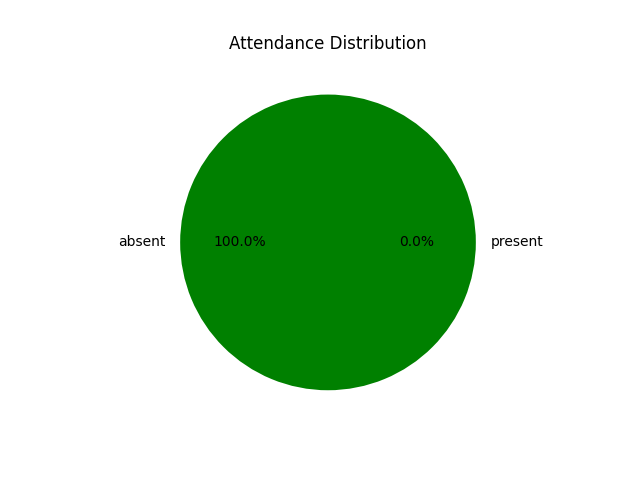
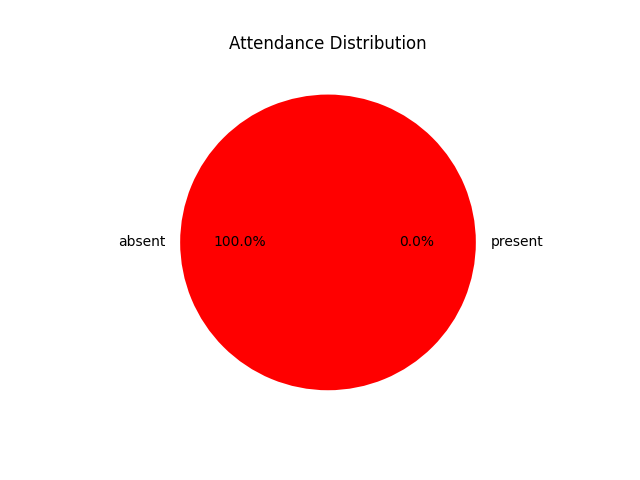
added video and photo processing

Changed region(s): [[0.2812, 0.1875, 0.75, 0.8125]]

diff --git a/templates/index.html b/templates/index.html
@@ -40,7 +40,7 @@
     <div class="container col-xxl-8 px-4 py-5">
         <div class="row flex-lg-row-reverse align-items-center g-5 py-5">
           <div class="col-10 col-sm-8 col-lg-6">
-            <img src="static/attendence.jpeg" class="d-block mx-lg-auto img-fluid" alt="Attendence Image" id="mainimg">
+            <img src="static/attendence.jpeg" class="d-block mx-lg-auto img-fluid" alt="Attendence Image" class="mainimg">
           </div>
           <div class="col-lg-6">
             <h1 class="display-5 fw-bold text-body-emphasis lh-1 mb-3">Attend with a smile😊</h1>
@@ -49,15 +49,28 @@
                 Are you really bored with attendance being called out loud and bearing with the uncontrollabley smart students...we are here with a solution... click ont the below link to START </p>
             <div class="d-grid gap-2 d-md-flex justify-content-md-start">
               <form action="/run_face_recognition" method="POST">
-                <button type="submit" class="btn btn-primary btn-lg px-4 me-md-2" fdprocessedid="7hkavj">Start Attendance</button>
+                <button type="submit" class="btn btn-primary btn-lg px-4 me-md-2" fdprocessedid="7hkavj">live process</button>
+              </form>
+              <form method="POST" action="/process_photo" enctype="multipart/form-data">
+                <input type="file" name="photo" accept=".jpg, .jpeg, .png">
+                <button type="submit" class="btn btn-primary btn-lg px-4 me-md-2" fdprocessedid="7hkavj">Process Photo</button>
+              </form>
+              <form method="POST" action="/process_video" enctype="multipart/form-data">
+                <input type="file" name="video" accept=".mp4">
+                <button type="submit" class="btn btn-primary btn-lg px-4 me-md-2" fdprocessedid="7hkavj">Process Video</button>
               </form>
               
-              <form action="{{ url_for('attendance_chart') }}" method="POST">
-                <button type="submit" class="btn btn-primary btn-lg px-4 me-md-2">Pie chart view</button>
-              </form>
-              <form action="{{ url_for('project_details') }}" method="POST">
-                <button type="submit" class="btn btn-outline-secondary btn-lg px-4">Project details</button>
-              </form>
+              
+            </div>
+            <br>
+            <div>
+                <form action="{{ url_for('attendance_chart') }}" method="POST">
+                  <button type="submit" class="btn btn-primary btn-lg px-4 me-md-2">Pie chart view</button>
+                </form>
+                <br>
+                <form action="{{ url_for('project_details') }}" method="POST">
+                  <button type="submit" class="btn btn-outline-secondary btn-lg px-4">Project details</button>
+                </form>
             </div>
           </div>
         </div>
@@ -67,7 +80,7 @@
     <div class="container px-4 py-5" id="featured-3">
         <h2 class="pb-2 border-bottom">Creators Info</h2>
         <div class="row g-4 py-5 row-cols-1 row-cols-lg-3">
-              <img src='static/radheshpic.jpeg'>
+              <img src='static/radheshpic.jpeg' class="imgpic">
            
           <div class="feature col" id="info1" class="gradient-background-2">
             
@@ -80,10 +93,10 @@
               <svg class="bi"><use xlink:href="#chevron-right"></use></svg>
             </a>
           </div>
+          <div class="new-line"></div>
+          <img src ="static/nithinpic.jpg" class="imgpic">
           <div class="feature col" id="info2" class="gradient-background-2">
-            <div class="feature-icon d-inline-flex align-items-center justify-content-center text-bg-primary bg-gradient fs-2 mb-3">
-              <svg class="bi" width="1em" height="1em"><use xlink:href="#people-circle"></use></svg>
-            </div>
+           
             <h3 class="fs-2 text-body-emphasis">Nithin Paramkar</h3>
             <p><h2 font-color="white">Student at RIT</h2>
               <h2>USN : 1MS22CS087</h2>
@@ -93,10 +106,10 @@
               <svg class="bi"><use xlink:href="#chevron-right"></use></svg>
             </a>
           </div>
+          <div class="new-line"></div>
+          <img src ="static/nirmithpic.jpg" class="imgpic">
           <div class="feature col" id="info3" class="gradient-background-2">
-            <div class="feature-icon d-inline-flex align-items-center justify-content-center text-bg-primary bg-gradient fs-2 mb-3">
-              <svg class="bi" width="1em" height="1em"><use xlink:href="#toggles2"></use></svg>
-            </div>
+            
             <h3 class="fs-2 text-body-emphasis">Nirmith MR</h3>
             <p><h2 font-color="white">Student at RIT</h2>
               <h2>USN : 1MS22CS087</h2>
@@ -106,10 +119,10 @@
               <svg class="bi"><use xlink:href="#chevron-right"></use></svg>
             </a>
           </div>
+          <div class="new-line"></div>
+          <img src ="static/jdodda.jpg" class="imgpic">
           <div class="feature col" id="info4">
-            <div class="feature-icon d-inline-flex align-items-center justify-content-center text-bg-primary bg-gradient fs-2 mb-3">
-              <svg class="bi" width="1em" height="1em"><use xlink:href="#toggles2"></use></svg>
-            </div>
+            
             <h3 class="fs-2 text-body-emphasis">JD Raghuveer</h3>
             <p><h2 font-color="white">Student at RIT</h2>
               <h2>USN : 1MS22CS087</h2>

diff --git a/templates/project.html b/templates/project.html
@@ -56,7 +56,7 @@
           <div class="col-md-5">
             <img src="static/images1.png">
           </div>
-            <h2 class="featurette-heading fw-normal lh-1">Continuous attendence monitoring.<br> <span class="text-body-secondary">with high accuracy model.</span></h2>
+            <h2 class="featurette-heading fw-normal lh-1">Continuous attendence monitoring.<br> <span class="text-body-secondary"></span></h2>
             <p class="lead">Our model tends to be more continuos accurate and .</p>
             <h3>This innovative approach employs real-time image capture and analysis to ensure accurate attendance records. By leveraging biometric features like facial recognition, this technology eliminates errors and enhances security. Its benefits include instant updates, data-driven insights, and seamless integration. However, ethical considerations must be upheld to ensure privacy. Should you seek to explore this solution further, feel free to connect.</h3>
           </div>
@@ -64,15 +64,7 @@
             
         </div>
     
-        <hr class="featurette-divider">
-    
-        <div class="row featurette">
-          
-        </div>
-    
-        <hr class="featurette-divider">
-    
-        <!-- /END THE FEATURETTES -->
+        
     
       </div>
       <div class="container">

diff --git a/static/styles.css b/static/styles.css
@@ -14,8 +14,10 @@ body {
 }
 .gradient-background-2 {
     background: linear-gradient(300deg, rgb(255, 255, 8), rgb(246, 234, 144), rgb(114, 252, 190));
-    background-size: 180% 180%;
+    background-size: 100% 100%;
     animation: gradient-animation 18s ease infinite;
+    width : 200 px;
+
 }
 
 @keyframes gradient-animation {
@@ -42,19 +44,30 @@ img {
     float: left; /* Use float to make the elements appear side-by-side */
     /*display: inline-block;*/
     background: linear-gradient(300deg, rgb(255, 255, 8), rgb(246, 234, 144), rgb(114, 252, 190));
-    background-size: 180% 180%;
+    background-size: 100% 100%;
     animation: gradient-animation 18s ease infinite;
     border-radius: 10px;
     margin-right: 20px; /* Add margin to create spacing between the elements */
     font-size: 2rem;
 }
-#mainimg{
+.mainimg{
     max-width: 100%;
     max-height: 100%;
+    display: flex; 
+    justify-content: right; 
+    align-items: right; 
+
 }
 .mod{
     display: flex; 
     justify-content: center; 
     align-items: center; 
 
+}
+.imgpic {
+    width : 300px;
+    height : 350px;
+}
+.new-line {
+    display: block;
 }

diff --git a/templates/attendance_chart.html b/templates/attendance_chart.html
@@ -6,7 +6,7 @@
 <link rel="stylesheet" type="text/css" href="{{ url_for('static', filename='styles.css') }}">
 <body>
     <h1>Attendance Chart</h1>
-    <div>
+    <div class="mod">
         <img src="{{ url_for('static', filename='pie_chart.png') }}" alt="Pie Chart">
     </div>
 </body>

diff --git a/app.py b/app.py
@@ -1,4 +1,4 @@
-from flask import Flask, render_template, request
+from flask import Flask, render_template, request, redirect, url_for
 import face_recognition
 import cv2
 import os
@@ -6,12 +6,22 @@ import numpy as np
 import csv
 from datetime import datetime
 import matplotlib.pyplot as plt
-app = Flask(__name__, template_folder ='templates')
+from PIL import Image
 
-def run_face_recognition():
-    present=[]
-    # face recognition code here
-    video_capture = cv2.VideoCapture(0)
+app = Flask(__name__, template_folder='templates')
+
+# Define the run_face_recognition function
+def run_face_recognition(input_file=None):
+    present = []
+    
+    # Initialize video capture
+    video_capture = cv2.VideoCapture(input_file) if input_file else cv2.VideoCapture(0)
+    
+    if not video_capture.isOpened():
+        print("Error: Video capture not initialized.")
+        return
+    
+    # Load known face encodings and names
     tata_image = face_recognition.load_image_file("photos/ratantata.jpg")
     tata_encoding = face_recognition.face_encodings(tata_image)[0]
 
@@ -21,25 +31,16 @@ def run_face_recognition():
     dhoni_image = face_recognition.load_image_file("photos/dhoni.jpg")
     dhoni_encoding = face_recognition.face_encodings(dhoni_image)[0]
 
-    
-    known_face_encodings = [
-        tata_encoding,
-        modi_encoding,
-        dhoni_encoding,
-        
-    ]
-
-    known_faces_names = [
-        "ratantata",
-        "modi",
-        "dhoni",
-        
-    ]
-
-    students = known_faces_names.copy()
+    known_face_encodings = [tata_encoding, modi_encoding, dhoni_encoding]
+    known_faces_names = ["ratantata", "modi", "dhoni"]
 
     while True:
-        _, frame = video_capture.read()
+        ret, frame = video_capture.read()
+
+        if not ret:
+            print("Error: Could not read frame.")
+            break
+        
         small_frame = cv2.resize(frame, (0, 0), fx=0.25, fy=0.25)
         rgb_small_frame = small_frame[:, :, ::-1]
 
@@ -48,62 +49,104 @@ def run_face_recognition():
         face_names = []
 
         for face_encoding in face_encodings:
-            matches = face_recognition.compare_faces(known_face_encodings , face_encoding)
+            matches = face_recognition.compare_faces(known_face_encodings, face_encoding)
             name = ""
             face_distance = face_recognition.face_distance(known_face_encodings, face_encoding)
             best_match_index = np.argmin(face_distance)
             if matches[best_match_index]:
                 name = known_faces_names[best_match_index]
             face_names.append(name)
-            if name in known_faces_names:
-                if name in students:
-                    present.append(name)
-                    students.remove(name)
-                    print(students)
-                    current_time = datetime.now().strftime("%H-%M-%S")
-
+            if name:
+                present.append(name)
+                
         cv2.imshow("attendance system", frame)
         
         if cv2.waitKey(1) & 0xFF == ord('q'):
-            
-            
             video_capture.release()
-            with open('attendance.csv','w+',newline='') as csvfile:
-                        csvwriter = csv.writer(csvfile)
-                        for i in range(len(present)):
-                            csvwriter.writerow([present[i] , current_time])
+            cv2.destroyAllWindows()
             break
+    
+    # Calculate attendance statistics
     present_count = len(present)
     absent_count = len(known_faces_names) - present_count
+    
+    # Generate a pie chart
     students = [present_count, absent_count]
     status = ['present', 'absent']
-    cl = ['red', 'green']
-
+    cl = ['green', 'red']
     plt.pie(students, labels=status, autopct='%2.1f%%', colors=cl)
     plt.title('Attendance Distribution')
     chart_image_path = 'static/pie_chart.png'  # Save in the 'static' folder
     plt.savefig(chart_image_path)
-
-
     plt.clf()
-    plt.show()
-@app.route("/")
+    
+    # Save attendance data to a CSV file
+    current_time = datetime.now().strftime("%H-%M-%S")
+    with open(f'attendance_{current_time}.csv', 'w', newline='') as csvfile:
+        csvwriter = csv.writer(csvfile)
+        for student in present:
+            csvwriter.writerow([student, current_time])
 
+# Define the root route for the web application
+@app.route("/", methods=["GET", "POST"])
 def index():
+    if request.method == "POST":
+        if request.form.get("photo_upload"):
+            return render_template("photo_upload.html")
+        elif request.form.get("video_upload"):
+            return render_template("video_upload.html")
+        elif request.form.get("live_image"):
+            run_face_recognition()
+            return redirect(url_for('index'))
     return render_template("index.html")
 
-@app.route("/run_face_recognition", methods=["POST"])
-def run_face_recognition_endpoint():
-    run_face_recognition()
-    return "Face Recognition completed"
+# Route for processing uploaded photos
+@app.route("/process_photo", methods=["POST"])
+def process_photo():
+    if 'photo' not in request.files:
+        return "No file part"
+    
+    photo = request.files['photo']
+    
+    if photo.filename == '':
+        return "No selected file"
+    
+    if photo:
+        # Save the uploaded photo to a temporary location and process it
+        photo_path = "photos/dhoni.jpeg"
+        photo.save(photo_path)
+        run_face_recognition(photo_path)
+        return redirect(url_for('index'))
 
+# Route for processing uploaded videos
+@app.route("/process_video", methods=["POST"])
+def process_video():
+    if 'video' not in request.files:
+        return "No file part"
+    
+    video = request.files['video']
+    
+    if video.filename == '':
+        return "No selected file"
+    
+    if video:
+        # Save the uploaded video to a temporary location and process it
+        video_path = "temp/video.mp4"
+        video.save(video_path)
+        run_face_recognition(video_path)
+        return redirect(url_for('index'))
 @app.route("/project_details", methods=["POST"])
 def project_details():
+    # Code to display project details (you need to implement this)
     return render_template("project.html")
-
-@app.route("/attendance_chart",methods=["POST"])
+@app.route("/run_face_recognition" , methods=["POST"])
+def run_face_recognition_endpoint():
+    run_face_recognition()
+    return "Face recognition completed"
+@app.route("/attendance_chart", methods=["POST"])
 def attendance_chart():
+    # Code to display attendance chart (you need to implement this)
     return render_template("attendance_chart.html")
 
-if __name__ == '__main__':
-    app.run(debug=True, port=5001)
+if __name__ == "__main__":
+    app.run(debug=True)
